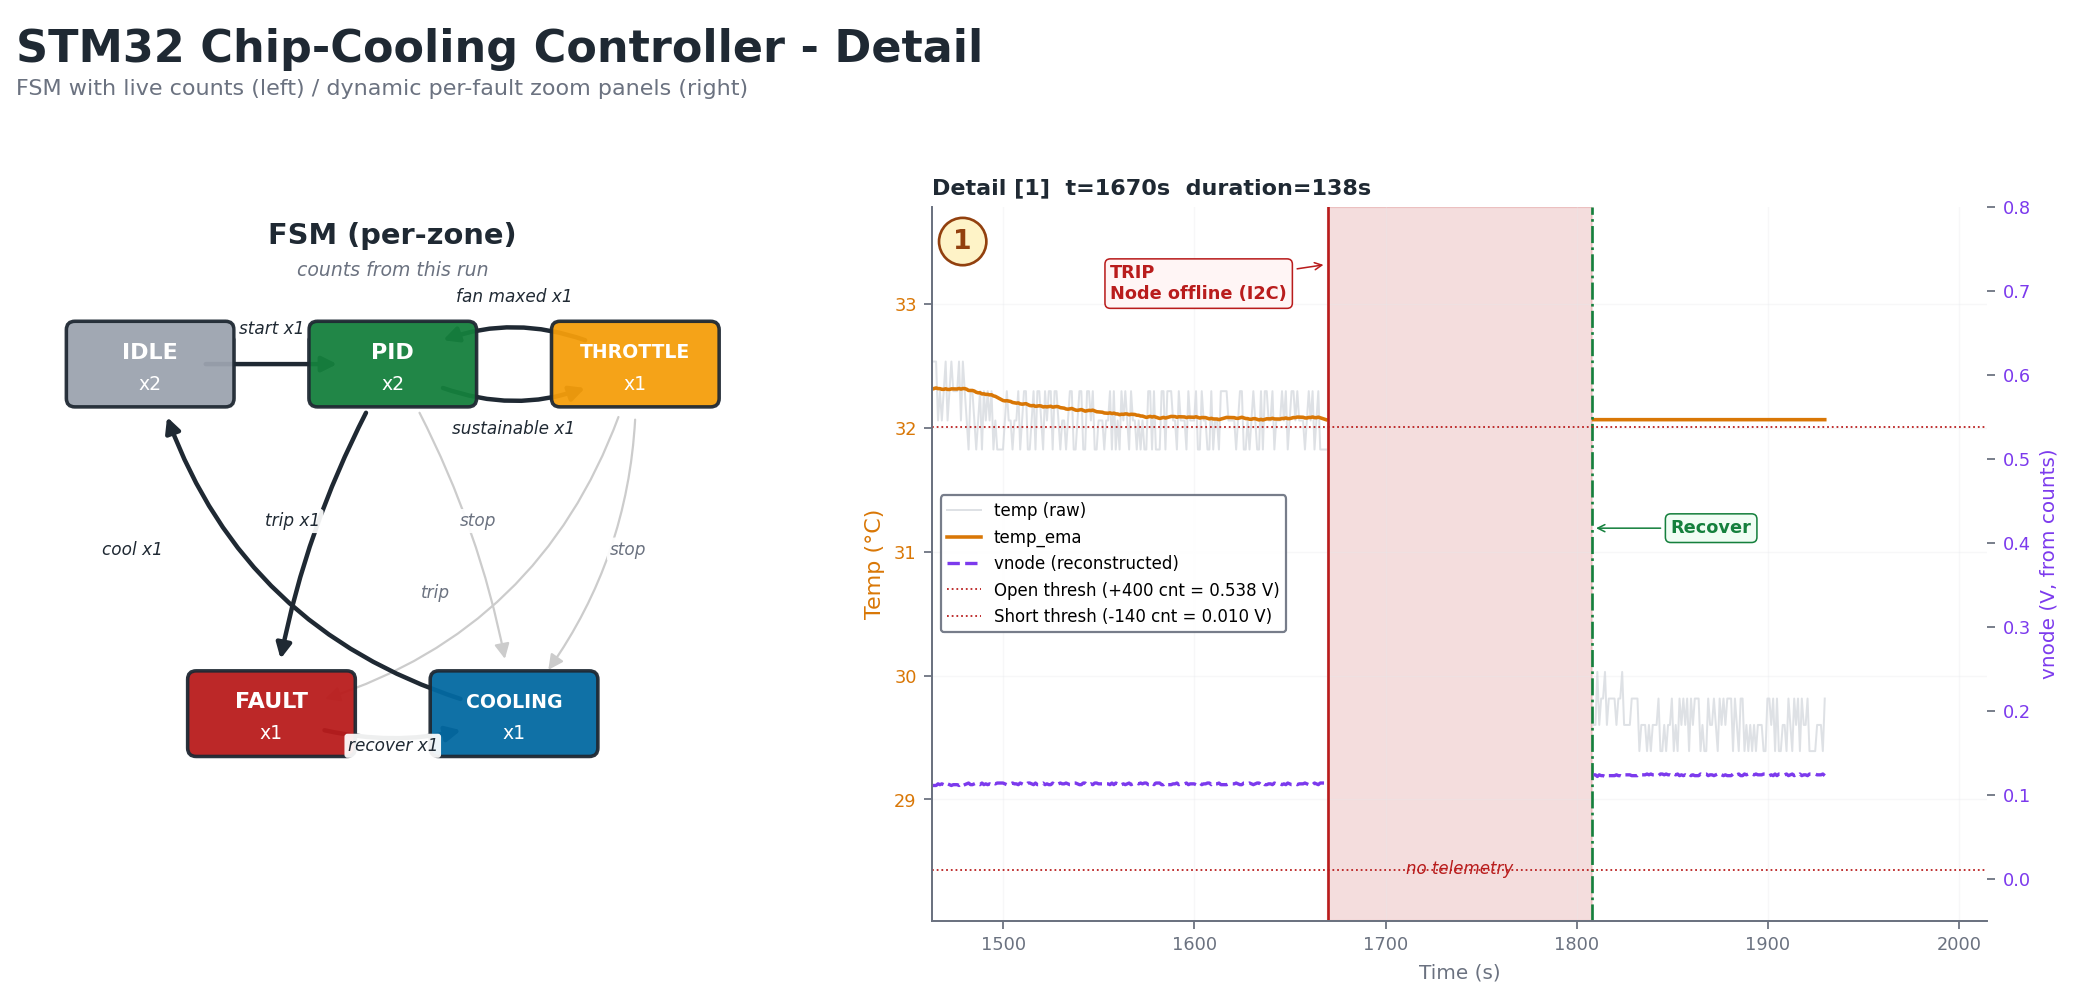
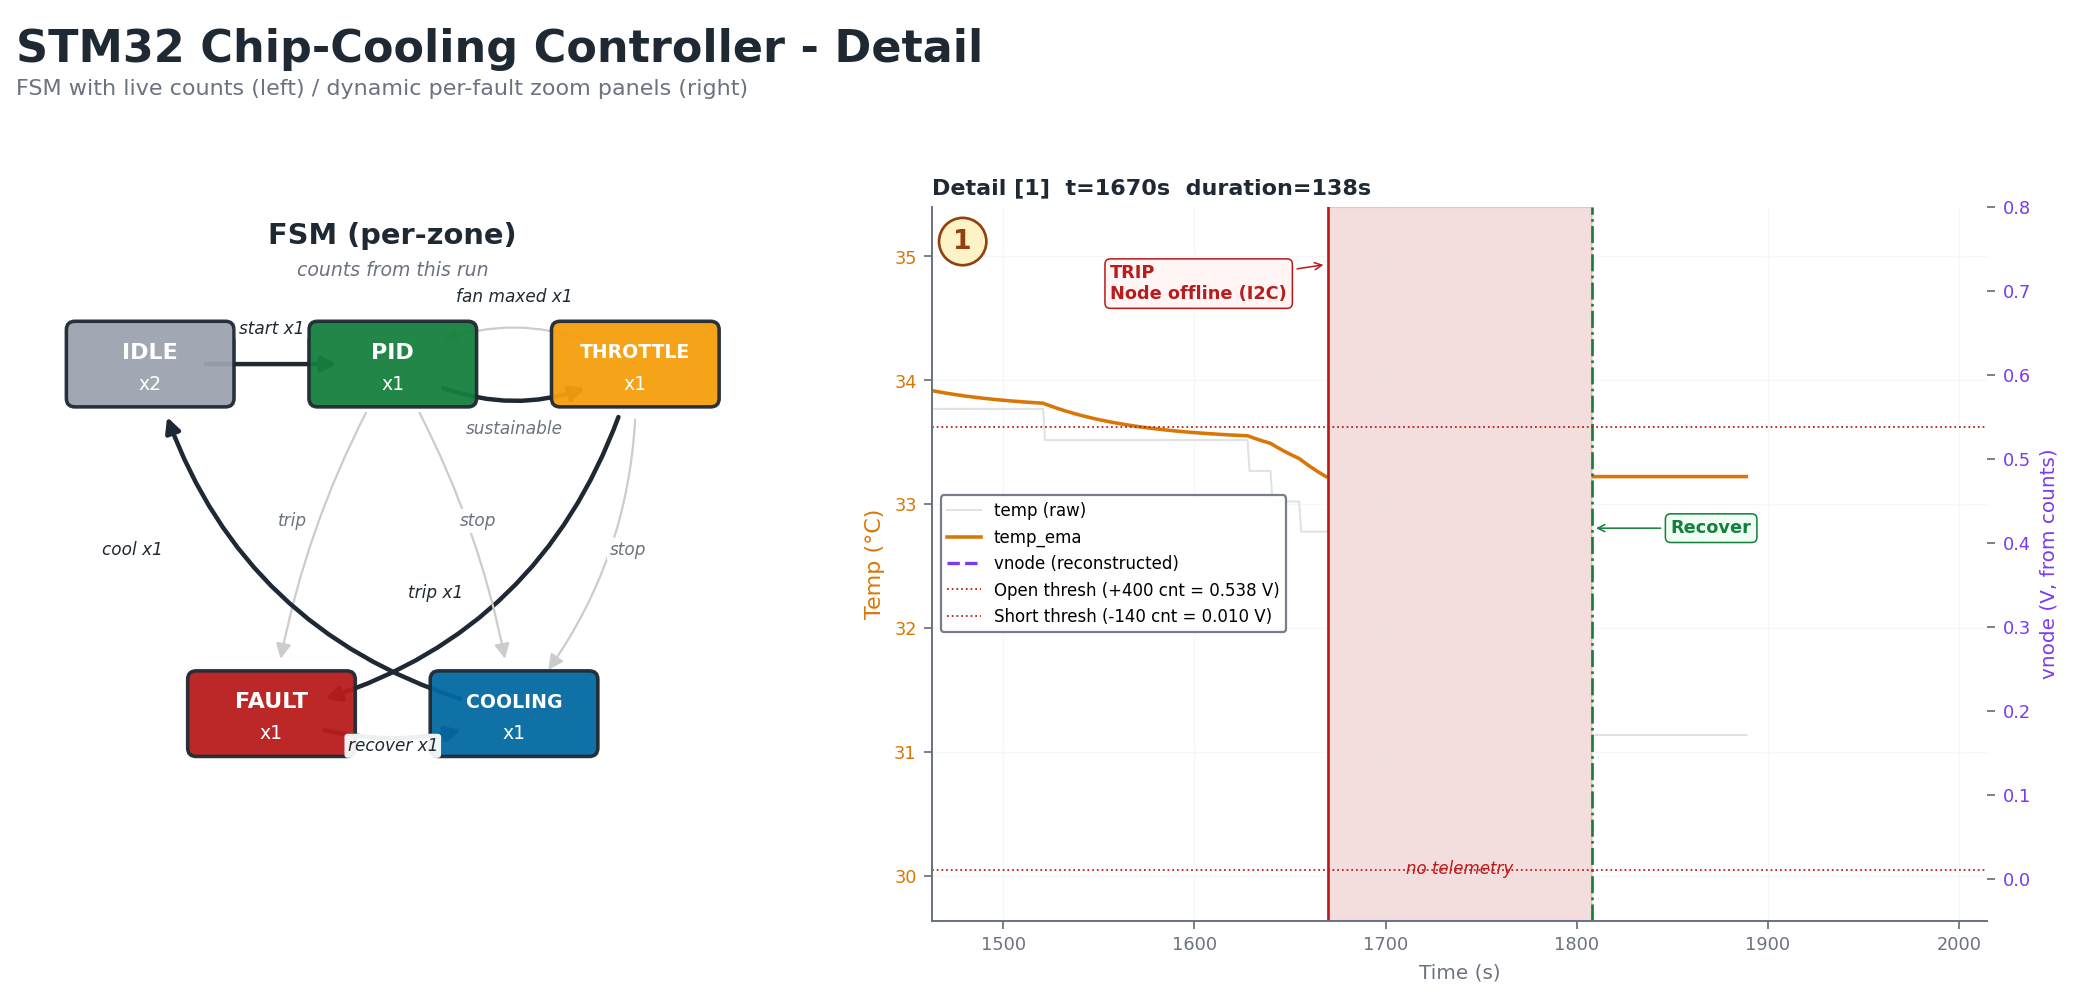
fix(test): model the node's EMA - the sensor trace was dithering
The simulated temperature dithered where the bench trace is a clean staircase,
and the cause was a block missing from the model rather than a noise level set
too high.

zone1/Zone1.c samples the differential ADC at 100 Hz and runs
adc_ema += 0.05*(raw - adc_ema) BEFORE rounding to a wire count. An EMA
attenuates white noise by sqrt(a/(2-a)), so a=0.05 divides it by 6.2: +/-1 LSB
of raw jitter becomes ~0.13 LSB at the output, which then mostly disappears in
the rounding. The count only moves when the filtered value genuinely crosses a
boundary. The simulator was injecting noise and quantising in the same breath,
with nothing in between, so every sample could jump a count.

Same injected noise before and after:

  before : count changes on ~100% of samples, median dwell  1 s
  after  : count changes on    1% of samples, median dwell 63 s

Worth noting for the fault thresholds elsewhere in this project: that 6x
reduction sits upstream of everything, which is why single-count margins
between "hottest legitimate" and "shorted" are survivable at all.

Two other corrections in the same pass:

  the simulator logged reconstructed volts in the vnode field, but the
  firmware logs raw signed counts there - the two runs were reporting
  different quantities in the same column (-167..0 against 0..0.12)

  the scenario now uses the recorded setpoints and load steps rather than
  invented ones, so the comparison is like for like
[…]

diff --git a/test/test_sim_run.c b/test/test_sim_run.c
@@ -6,9 +6,20 @@
  * either the model or my understanding of the loop is wrong - and that is
  * worth knowing before trusting any of it.
  *
- * Everything the hardware run had is kept: the same setpoints, the same
- * differential ADC path (degC -> counts -> wire -> decode), the same
- * quantisation, the same +/-1 LSB jitter.
+ * Everything the hardware run had is kept: the same setpoints, the same load
+ * steps, the same differential ADC path (degC -> counts -> wire -> decode),
+ * the same quantisation and +/-1 LSB jitter - and, crucially, the node-side
+ * EMA that sits between them.
+ *
+ * That filter is easy to leave out and it changes everything. zone1/Zone1.c
+ * samples at 100 Hz and runs adc_ema += 0.05*(raw - adc_ema) before rounding
+ * to a wire count. For white noise an EMA attenuates by sqrt(a/(2-a)), so
+ * a=0.05 divides the noise by 6.2: +/-1 LSB of raw jitter becomes ~0.13 LSB
+ * at the output, which mostly disappears in the rounding. The result on the
+ * bench is a clean staircase that steps only when the filtered value truly
+ * crosses a count boundary. Inject noise and quantise in the same breath -
+ * as an earlier version of this file did - and you get a dithering trace
+ * that looks nothing like the hardware.
  *
  *   ./build/test_sim_run sim_run          -> sim_run.bin, sim_run_events.bin
  *   python3 scripts/parse_struct_dump.py sim_run.bin --events sim_run_events.bin -o sim_run
@@ -47,24 +58,29 @@ static float decode_counts_to_celsius(int counts)
 /* ---- the recorded run, as a script -------------------------------------
  * Timings and setpoints taken from the hardware capture so the two figures
  * can be laid side by side.                                              */
+#define T_SETPOINT     22      /* setpoint 30 -> 34, a few ticks after start */
 #define T_START        20      /* start request                            */
-#define T_LOAD_UP     600      /* user raises the load                     */
-#define T_FAN_BLOCK  1010      /* airflow degraded -> throttle should engage */
-#define T_FAN_CLEAR  1660      /* airflow restored                         */
-#define T_SETPOINT   1665      /* setpoint moved 32 -> 33                  */
-#define T_NODE_DROP  1669      /* node goes offline (the real bring-up fault) */
-#define T_NODE_BACK  1798
-#define T_STOP       1890
-#define T_END        1930
+#define T_LOAD_2       880     /* user raises the load 0.2 -> 0.3          */
+#define T_LOAD_3      1230     /* and again 0.3 -> 0.4                     */
+#define T_FAN_BLOCK   1240     /* airflow degraded -> throttle engages     */
+#define T_FAN_CLEAR   1628     /* airflow restored                         */
+#define T_NODE_DROP   1669     /* node goes offline (the real bring-up fault) */
+#define T_NODE_BACK   1798
+#define T_STOP        1860
+#define T_END         1889
 
-static void log_sample_sim(float temp_c, float ema, float vnode, float fan,
+/* The node samples 100x per control period and filters before it rounds. */
+#define NODE_SUBSAMPLES 100
+#define NODE_EMA_ALPHA  0.05f
+
+static void log_sample_sim(float temp_c, float ema, float counts, float fan,
                            float heater, float req, float setpoint, uint32_t rpm)
 {
     uint32_t i = thermal_log_idx % THERM_LOG_LEN;
     thermal_log[i].time_s      = (float)HAL_GetTick() * 0.001f;
     thermal_log[i].temp_c      = temp_c;
     thermal_log[i].temp_ema    = ema;
-    thermal_log[i].vnode       = vnode;
+    thermal_log[i].vnode       = counts;
     thermal_log[i].fan_duty    = fan;
     thermal_log[i].heater_duty = heater;
     thermal_log[i].heater_req  = req;
@@ -96,11 +112,20 @@ int main(int argc, char **argv)
     /* noise on, fan cooling on - the measured configuration */
     /* Ambient taken from the recorded run: the capture starts at ~29.8 C,
        which is a Tehran summer bench, not the 25 C nominal. */
-    plant_init(29.6f, 1, 1);
+    /* Ambient 31.0 C, read off the start of the recording. The bench was a
+       Tehran summer afternoon and the heater had been run before, so the
+       block never returned to the 25 C nominal. That initial condition is
+       the only free parameter here: with it, K=8.2 reproduces the recorded
+       steady state at load 0.4; without it, the run is unreachable (29.6 +
+       8.2*0.4 = 32.9 C, below the 34 C the hardware actually held). */
+    plant_init(31.0f, 1, 1);
+
+    /* Seeded the way the node seeds it: one conversion, no cold ramp. */
+    float node_ema = (float)plant_temp_to_counts(plant_temp_c());
 
     ZoneCtrl *z = &zones[ZONE];
-    z->setpoint_c            = 32.0f;
-    z->requested_heater_duty = 0.44f;
+    z->setpoint_c            = 30.0f;
+    z->requested_heater_duty = 0.20f;
 
     uint8_t last_state = 0xFF, last_fault = 0xFF, online = 1;
     float   last_setpoint = -1000.0f;
@@ -110,16 +135,24 @@ int main(int argc, char **argv)
 
         /* ---- scripted disturbances ---------------------------------- */
         if (t == T_START)      z->start_req = 1;
-        if (t == T_LOAD_UP)    z->requested_heater_duty = 0.66f;
-        if (t == T_FAN_BLOCK)  airflow = 0.62f;   /* fan moved away       */
-        if (t == T_FAN_CLEAR)  airflow = 1.0f;
         if (t == T_SETPOINT)   z->setpoint_c = 33.0f;
+        if (t == T_LOAD_2)     z->requested_heater_duty = 0.35f;
+        if (t == T_LOAD_3)     z->requested_heater_duty = 0.55f;
+        if (t == T_FAN_BLOCK)  airflow = 0.30f;   /* fan moved away       */
+        if (t == T_FAN_CLEAR)  airflow = 1.0f;
         if (t == T_NODE_DROP)  { fake_i2c_set_present(ZONE, 0); }
         if (t == T_NODE_BACK)  { fake_i2c_set_present(ZONE, 1); }
         if (t == T_STOP)       z->stop_req = 1;
 
-        /* ---- sensor: plant degC -> counts -> wire -------------------- */
-        int      counts = plant_temp_to_counts(plant_temp_c());
+        /* ---- sensor: the node's own loop, 100 Hz, filtered then rounded.
+         *      The plant moves negligibly across 10 ms against tau=111 s, so
+         *      the temperature is held while the ADC noise is redrawn each
+         *      conversion - which is what the hardware actually experiences. */
+        for (int k = 0; k < NODE_SUBSAMPLES; k++) {
+            float raw = (float)plant_temp_to_counts(plant_temp_c());
+            node_ema += NODE_EMA_ALPHA * (raw - node_ema);
+        }
+        int      counts = (int)(node_ema + (node_ema >= 0.0f ? 0.5f : -0.5f));
         uint16_t wire   = plant_counts_to_wire(counts);
         fake_i2c_set_telemetry(ZONE, wire, plant_fan_rpm_to_tach(z->fan_duty));
 
@@ -135,13 +168,12 @@ int main(int argc, char **argv)
 
         /* ---- firmware decode + FSM ----------------------------------- */
         int      decoded = 0;
-        float    temp_c  = 0.0f, vnode = 0.0f;
+        float    temp_c  = 0.0f;
         uint32_t rpm     = 0;
 
         if (online) {
             decoded = (int)tel.adc_raw - 512;
             temp_c  = decode_counts_to_celsius(decoded);
-            vnode   = 5.0f * ((float)decoded / 5120.0f + 10.0f / 340.0f);
             rpm     = (uint32_t)tel.tach_pulses * 30u;
 
             if (z->state == ST_PID || z->state == ST_THROTTLE)
@@ -169,8 +201,11 @@ int main(int argc, char **argv)
         if (z->setpoint_c != last_setpoint){ event_sim(4, 0, z->setpoint_c);
                                              last_setpoint = z->setpoint_c; }
 
-        log_sample_sim(temp_c, z->pid_temp, vnode, z->fan_duty, z->heater_duty,
-                       z->requested_heater_duty, z->setpoint_c, rpm);
+        /* The firmware logs raw signed counts in this field, not a
+           reconstructed voltage - see the log_sample call in ControlTask. */
+        log_sample_sim(temp_c, z->pid_temp, (float)decoded, z->fan_duty,
+                       z->heater_duty, z->requested_heater_duty,
+                       z->setpoint_c, rpm);
 
         /* ---- actuators drive the plant into the next second ---------- */
         plant_step(z->heater_duty, z->fan_duty * airflow);

diff --git a/README.md b/README.md
@@ -204,31 +204,60 @@ dump pulled over SWD — nothing in the reporting path is special-cased.
 
 | KPI | Hardware | Simulation |
 |---|---|---|
-| Run length | 31:30 | 32:09 |
-| Mean \|error\| in PID | 0.52 °C | 0.35 °C |
-| Throttle cycles | 1 | 1 |
+| Run length | 31:30 | 31:28 |
 | **Handover step** | **+0.000** | **+0.000** |
-| Load refused | 22 duty·s | 21 duty·s |
+| Throttle cycles | 1 | 1 |
+| Throttle dwell | 320 s | 324 s |
 | Faults | 1/1 cleared | 1/1 cleared |
 
-Same setpoints, same load steps, the same differential ADC path — °C to counts
-to wire to decode, quantisation and ±1 LSB jitter included — and the same
-node-offline fault that actually happened during bring-up.
+#### The filter that makes the sensor trace look right
 
-What this does and does not establish: the plant constants come from one step
-test, the airflow blockage is a scripted guess at a disturbance nobody
-measured, and the ambient was read off the recording. The agreement worth
-pointing at is the **handover step at +0.000 in both**, because that tests the
-controller's bumpless transfer rather than the quality of the plant fit. The
-mean error differs by 0.17 °C — the simulated sensor is quieter than the real
-one, which is expected when the noise model is ±1 LSB of uniform jitter and
-the bench has thermal drift, contact resistance and a fan that moves air
-unevenly.
+The first version of this simulator produced a noisy, dithering temperature
+trace that looked nothing like the bench. The bench trace is a clean staircase
+— and the reason is a block that had been left out of the model entirely.
+
+`zone1/Zone1.c` samples the differential ADC at 100 Hz and runs
+`adc_ema += 0.05*(raw - adc_ema)` **before** rounding to a wire count. For
+white noise an EMA attenuates by `sqrt(a/(2-a))`, so `a = 0.05` divides it by
+6.2: ±1 LSB of raw ADC jitter becomes about 0.13 LSB at the filter output,
+which then mostly disappears in the rounding. The count changes only when the
+*filtered* value genuinely crosses a boundary.
+
+Measured in simulation, before and after adding that stage:
+
+| | count changes on | median dwell on a level |
+|---|---|---|
+| noise injected then rounded | ~100 % of samples | 1 s |
+| through the node's EMA first | **1 % of samples** | **63 s** |
+
+Same injected noise in both cases. The difference is entirely the filter. It
+is also a load-bearing fact for the fault thresholds elsewhere in this
+project: single-count margins between "hottest legitimate" and "shorted" only
+survive because a 6× noise reduction sits upstream of them.
+
+#### What this does and does not establish
+
+The plant constants come from one step test, and the airflow blockage is a
+scripted guess at a disturbance nobody measured. One initial condition is
+fitted: the ambient is set to 31 °C, read off the start of the recording,
+because the bench was a Tehran summer afternoon and the block had not returned
+to the 25 °C nominal.
+
+That ambient is not cosmetic. With the measured `K = 8.2 °C/duty`, a 25 °C
+ambient cannot reach the operating point the hardware actually held — even
+with the fan off, `25 + 8.2 × 0.4 = 28.3 °C`. Either the ambient was much
+higher than nominal, or `K` is larger at these duties than the low-duty step
+test suggested. The recording alone cannot separate those, and this is
+recorded here rather than hidden in a tuned constant.
+
+The agreement worth pointing at is the **handover step at +0.000 in both**,
+because that tests the controller's bumpless transfer rather than the quality
+of the plant fit.
 
 Doing this found a real bug in the model: `plant_step()` decayed toward the
 compile-time ambient constant rather than the ambient the run was initialised
 with, so any scenario not starting at 25 °C settled at the wrong temperature.
-Invisible until a run was replayed at the actual bench ambient of 29.6 °C.
+Invisible until a run was replayed at the actual bench ambient.
 
 ---
 
